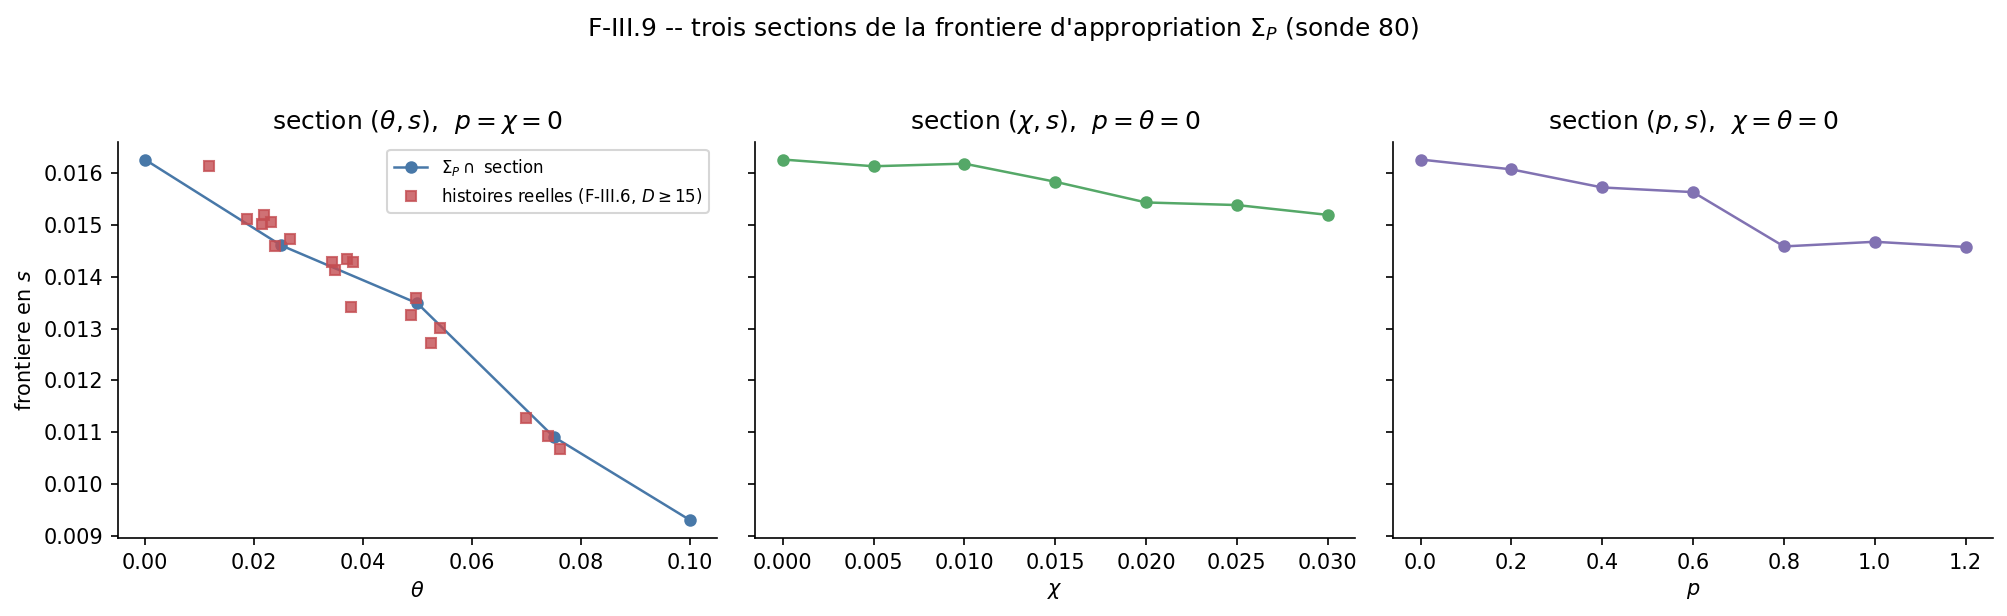
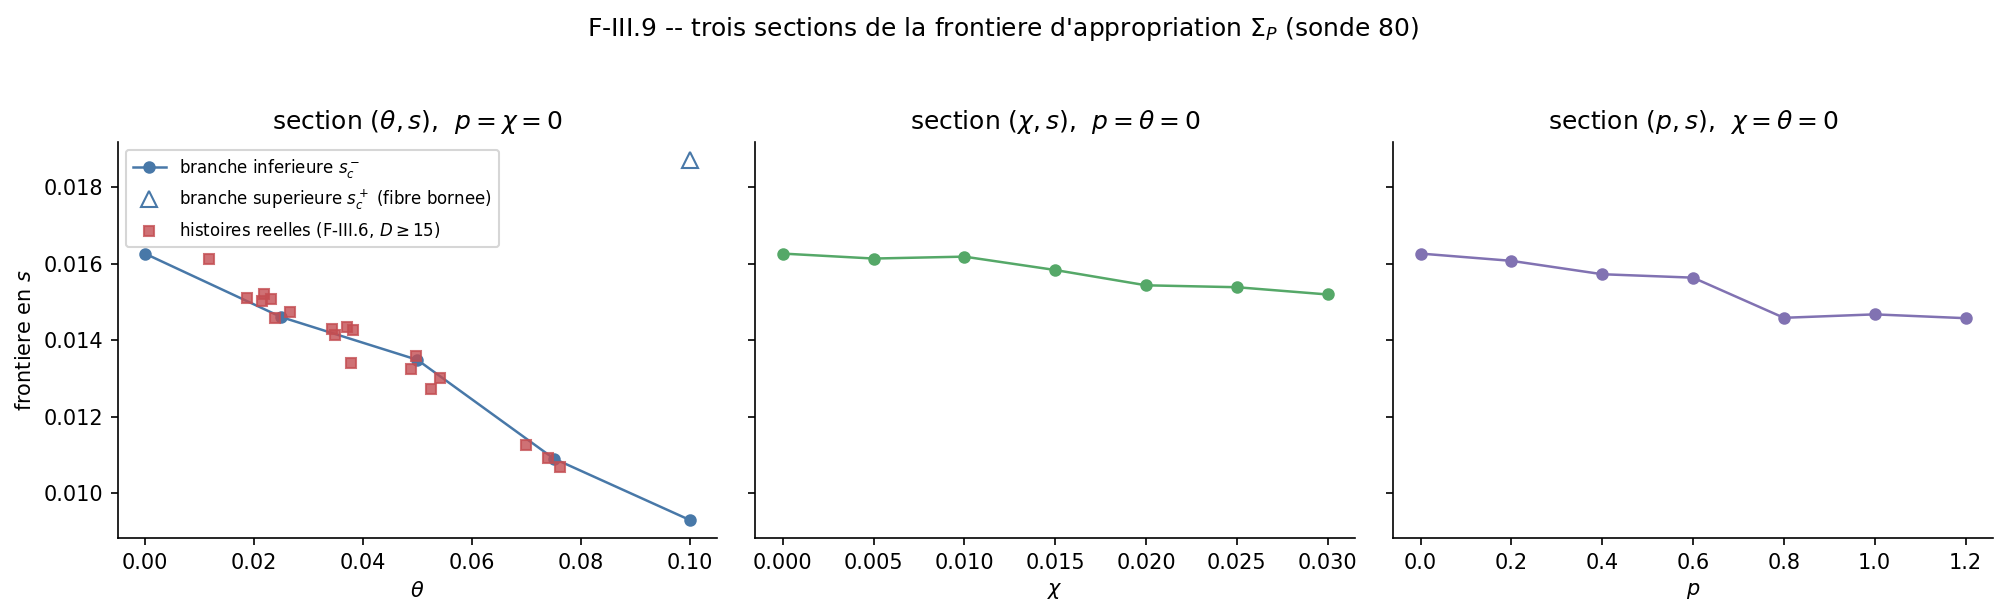
F-III.9.1: amendement post-relecture -- Prop III-10 renommee 'suffisance de l'etat lent aligne' + corollaire z(X)=z(Y) => indiscernabilite, registres preuve/validation separes, notation s_c-/s_c+ (facilitation peut creer un plafond), figure corrigee (branche superieure visible), triptyque section/pr

diff --git a/fiii9_frontiere.py b/fiii9_frontiere.py
@@ -288,7 +288,11 @@ fig, axs = plt.subplots(1, 3, figsize=(13.5, 4.0), sharey=True)
 ths = [e["theta"] for e in sec_th if e["bords"]]
 scs = [e["bords"][0] for e in sec_th if e["bords"]]
 axs[0].plot(ths, scs, "o-", color="#4878a8", ms=5, lw=1.2,
-            label="$\\Sigma_P \\cap$ section")
+            label="branche inferieure $s_c^-$")
+th2 = [e["theta"] for e in sec_th if len(e["bords"]) > 1]
+sc2 = [e["bords"][1] for e in sec_th if len(e["bords"]) > 1]
+axs[0].plot(th2, sc2, "^", color="#4878a8", ms=8, mfc="white",
+            label="branche superieure $s_c^+$ (fibre bornee)")
 axs[0].plot([r["theta"] for r in W4],
             [S_STAR - r["fac_mesuree"] for r in W4], "s",
             color="#c44e52", ms=5, alpha=0.8,

diff --git a/NOTE_FIII9_FRONTIERE.md b/NOTE_FIII9_FRONTIERE.md
@@ -59,3 +59,25 @@ Le témoin anti-facilitant de F-III.6 (T_am = 5.5, D = 12) a pour coordonnées e
 ---
 
 *Reproductibilité : `python fiii9_frontiere.py` (W0 validation, W1–W2 sections, W3 fermeture, W4 facilitation, W5 activité, W6 témoin) ; consolidé : `output_theory/fiii9_report.json` ; figure : `output_theory/fiii9_frontiere.png`.*
+
+---
+
+## 9. Amendement F-III.9.1 (post-relecture)
+
+Les formulations suivantes **supersèdent** le corps de la note.
+
+**R1 — Proposition III-10 renommée : « Suffisance de l'état lent aligné », avec son corollaire.** « Paramétrage » suggérait un système de coordonnées ; le résultat est plus fort : *sur la section de regraine alignée, l'histoire passée n'agit sur la sonde qu'à travers z*. Corollaire explicite : **z(X) = z(Y) ⟹ ℛ_X^ρ(𝒫) = ℛ_Y^ρ(𝒫)** — deux histoires produisant le même état lent sont indiscernables par la sonde déclarée. La fermeture 12/12 est la vérification expérimentale de ce quotient par z.
+
+**R2 — Preuve et validation, registres séparés.** Démontré analytiquement : invariance du sous-espace aligné ; absence de ssc dans la loi active ; déterminisme. Vérifié numériquement : les histoires testées produisent des états alignés au niveau machine, et les douze états synthétiques reproduisent les douze issues. La nullité exacte des résidus vient de l'invariance mathématique ; la mesure confirme que l'implémentation la respecte — deux registres, jamais mélangés.
+
+**R3 — Notation des branches.** s_c est réservée aux fibres à commutation unique. Dans les régions multicomposantes : Σ_θ = ∂A_θ, branches **s_c⁻(θ)** et **s_c⁺(θ)**. Conséquence conceptuelle actée : la facilitation n'est pas seulement l'abaissement d'un seuil inférieur — elle peut créer un **plafond d'appropriation** ; davantage de contenu n'est pas toujours préférable, même à état lent fixé. La figure est corrigée : la branche supérieure de la fibre θ = 0.10 apparaît désormais explicitement.
+
+**R4 — Section, projection, résidu transverse (triptyque officiel).** Fixer une coordonnée donne une *section* ; oublier une coordonnée donne une *projection* ; afficher un point réel sur une section de référence donne un *résidu transverse*. W4 compare des histoires à χ ≠ 0 à la section χ = 0 : les résidus sont des résidus transverses — et une partie des anciennes « lois de strate » étaient des projections ou des comparaisons à une section, pas des frontières complètes. Formulation canonique enregistrée : **« un résidu systématique peut être la trace d'une dimension lente omise. »**
+
+**R5 — P-III.6, version séparée.** Deux notions distinctes : la **structure géométrique** (Σ_𝒫 varie selon la coordonnée z_i — infinitésimale, ∂_{z_i}F ≠ 0 là où une représentation locale existe) et l'**activité décisionnelle** (l'ablation de z_i change l'issue ou la carte — opérationnelle). Elles coïncident près de la frontière, pas nécessairement loin d'elle (une frontière peut dépendre fortement de p sans que l'ablation de p ne change rien pour un point profond dans A_𝒫). Formulation exacte : *l'horloge structure la frontière lorsque Σ_𝒫 varie selon sa coordonnée ; elle est active en un point lorsque cette variation suffit à modifier la lecture choisie.*
+
+**R6 — Table W5, notation lisible.** Codage officiel : **0** (inactive), **L** (locale seulement), **P+L** (ponctuelle et locale). La table du §6 se relit : tardif — p:0, χ:0, θ:0 ; θ-vivant — p:0, χ:0, θ:P+L ; χ-vivant — p:0, χ:L, θ:L ; profond — p:P+L, χ:P+L, θ:P+L.
+
+**R7 — Portée de la clôture.** **QO-69 est close pour le témoin étudié et dans la famille alignée** ; d'autres mécanismes d'anti-facilitation ne sont pas exclus hors alignement ou sous une autre sonde. Le mécanisme de *ce* cas est identifié et quantifié.
+
+**R8 — Programme adopté pour QO-79 (méthode calendrier par calendrier).** Pas de cartographie uniforme aveugle : (1) identifier la signature événementielle de part et d'autre ; (2) localiser la frontière de changement de calendrier ; (3) cartographier Σ_𝒫 à calendrier fixé ; (4) vérifier comment les nappes se terminent, se croisent ou se replient au raccord. Objet global visé : **Σ_𝒫 = ⋃_C Σ_{𝒫,C}**, chaque morceau associé à une cellule de calendrier — nappes supérieures et îles pouvant naître des repliements ou des raccords. C'est le programme de F-III.10.